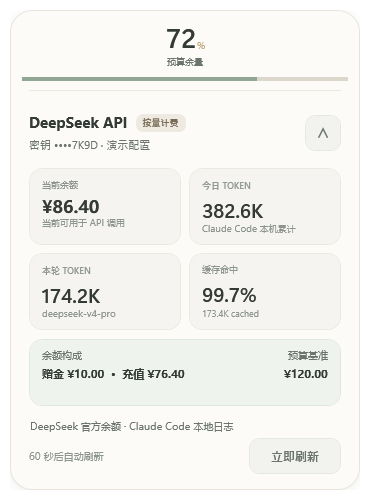
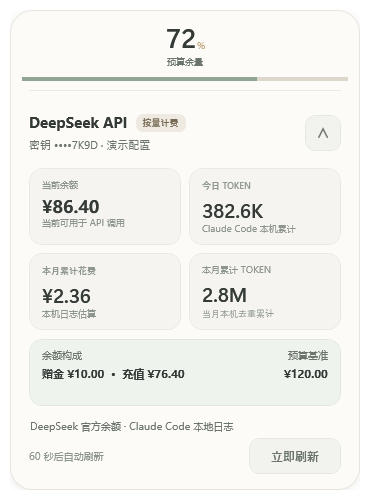
feat: add DeepSeek monthly usage estimates

Changed region(s): [[0.5351, 0.51, 0.7432, 0.66], [0.1189, 0.51, 0.2973, 0.66]]

diff --git a/README.md b/README.md
@@ -30,7 +30,8 @@
 - 鼠标悬浮光效、拖动、键盘快捷键和系统减少动画设置
 - 本地解析 Codex 会话中的余量、重置时间和 Token 数据
 - 读取 DeepSeek 官方余额、赠金和充值余额
-- 从 Claude Code 本地日志去重统计 DeepSeek 今日/本轮 Token
+- 从 Claude Code 本地日志去重统计 DeepSeek 今日与本月累计 Token
+- 按 DeepSeek V4 官方人民币价格估算本机本月累计花费
 - DeepSeek API Key 使用 Windows DPAPI 当前用户加密
 - 位置、置顶偏好和当前数据源自动保存在本机
 
@@ -95,6 +96,8 @@ powershell.exe -NoProfile -ExecutionPolicy Bypass -STA -File .\src\CodexMarginFl
 DeepSeek 模式每 60 秒最多请求一次官方 `https://api.deepseek.com/user/balance`。API Key 优先从 `DEEPSEEK_API_KEY` 读取；通过设置窗口保存时，使用 Windows DPAPI `CurrentUser` 加密后写入 `%LOCALAPPDATA%\CodexMarginFloat\deepseek.json`。应用不读取 CC Switch 密钥或数据库。
 
 DeepSeek 公开余额接口不提供 Codex 式周期重置数据。未设置预算基准时，小窗直接显示货币余额，不推导虚假的百分比。
+
+DeepSeek 的“本月累计花费”由本机 Claude Code 日志中的缓存命中、缓存未命中和输出 Token 按当前官方人民币价格估算，仅代表本机可见调用，不等同于 DeepSeek 账户账单。账户级精确用量请在 DeepSeek Platform 的 Usage 页面按月导出。
 
 ## 自检
 

diff --git a/docs/REFERENCE.md b/docs/REFERENCE.md
@@ -90,12 +90,16 @@ powershell.exe -NoProfile -ExecutionPolicy Bypass -STA `
 | 赠金余额 | `granted_balance` |
 | 充值余额 | `topped_up_balance` |
 | 可用状态 | `is_available` |
-| 今日 / 本轮 Token | Claude Code JSONL 中 DeepSeek `message.usage` |
+| 今日 Token | Claude Code JSONL 中 DeepSeek `message.usage` |
 | 缓存 Token | `cache_read_input_tokens` |
 | 当前模型 | DeepSeek 消息的 `model` |
 | 预算百分比 | 当前余额 ÷ 用户设置的预算基准，限制在 0–100 |
+| 本月累计 Token | 当月 Claude Code JSONL 中按 `message.id` 去重后的 Token |
+| 本月累计花费 | 按模型、缓存命中、缓存未命中和输出 Token 估算的人民币花费 |
 
 DeepSeek API Key 使用 `Authorization: Bearer` 发送到固定官方地址。网络读取异步进行，8 秒超时；401、429 和其他 HTTP 错误会显示可恢复提示。
+
+本月花费只覆盖本机 Claude Code 日志，不等同于账户级账单。精确账单需要从 DeepSeek Platform 的 Usage 页面导出。
 
 ## 设置
 

diff --git a/design-system/codex-margin-float/pages/widget.md b/design-system/codex-margin-float/pages/widget.md
@@ -47,6 +47,8 @@ system. The widget must remain dependency-free and must not download fonts.
 - Missing Codex fields must say `未提供`; never synthesize quota data
 - DeepSeek configuration uses a labeled native dialog, inline validation, and
   a clear cancel route. API keys must never be displayed in full.
+- DeepSeek monthly spend must be labeled as a local estimate; never present
+  locally reconstructed token cost as the authoritative account bill.
 - Structural icons use WPF vector paths
 - Exclude the floating surface from Win+Tab / Alt+Tab; expose a native Windows
   notification-area icon with labeled menu actions instead

diff --git a/CHANGELOG.md b/CHANGELOG.md
@@ -2,6 +2,14 @@
 
 本项目遵循 [Keep a Changelog](https://keepachangelog.com/zh-CN/1.1.0/) 的结构。
 
+## [1.1.1] - 2026-07-27
+
+### Changed
+
+- DeepSeek 详情将“本轮 TOKEN”和“缓存命中”替换为本月累计花费与本月累计 Token
+- 本月花费按 Claude Code 本机日志和 DeepSeek V4 官方人民币价格估算
+- 月度日志扫描改用编译型字段提取器，并继续按文件缓存，降低首次统计耗时
+
 ## [1.1.0] - 2026-07-27
 
 ### Added
